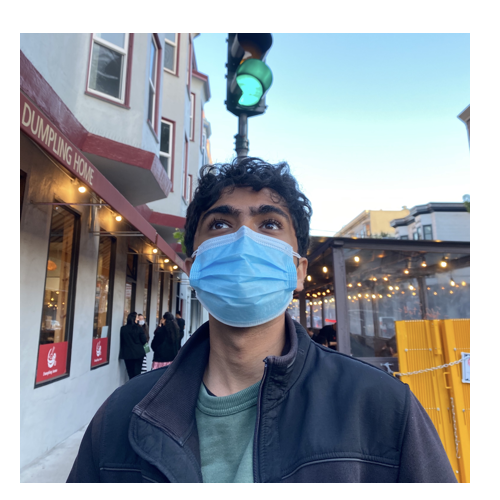
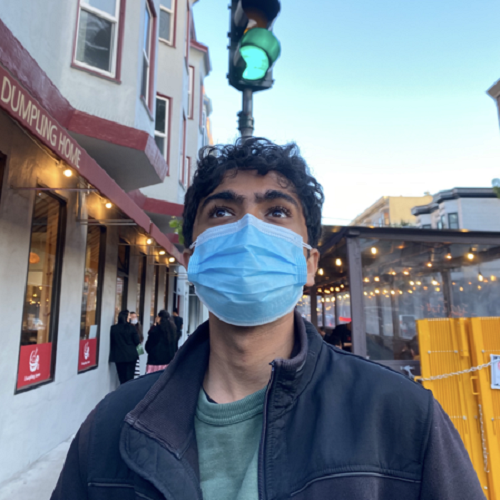
added more tutors, fixed photo sizes

diff --git a/_staffers/3034952792.md b/_staffers/3034952792.md
@@ -4,6 +4,6 @@ role: Tutor
 email: grace.chenxinyue@berkeley.edu
 website: 
 photo: http://ds100.org/fa21/resources/assets/staff_pics/gradpic_square - Grace_Chen.png
-pronouns: She/her/hers
+pronouns: she/her/hers
 ---
 Hi I'm a third year CS major and I'm really excited to meet everyone! Feel free to reach out and just talk about life! Hope you all have a graceful semester :))

diff --git a/_staffers/3035823270.md b/_staffers/3035823270.md
@@ -2,7 +2,7 @@
 name: Anusha Kansal
 role: Tutor
 email: anushakansal@berkeley.edu
-website:
+website: 
 photo: http://ds100.org/fa21/resources/assets/staff_pics/IMG_1758 (2) - Anusha_Kansal.JPG
 pronouns: she/her/hers
 ---
